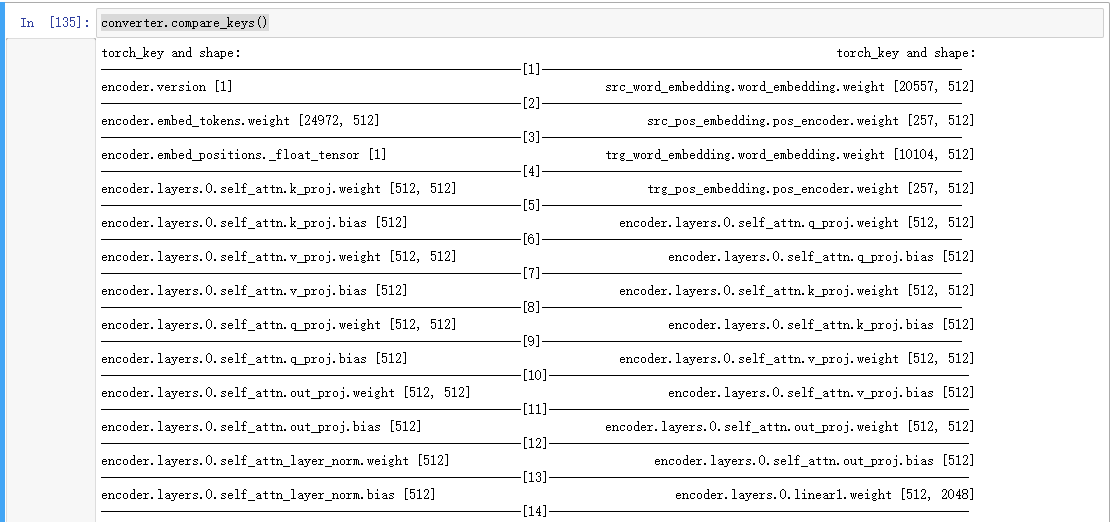
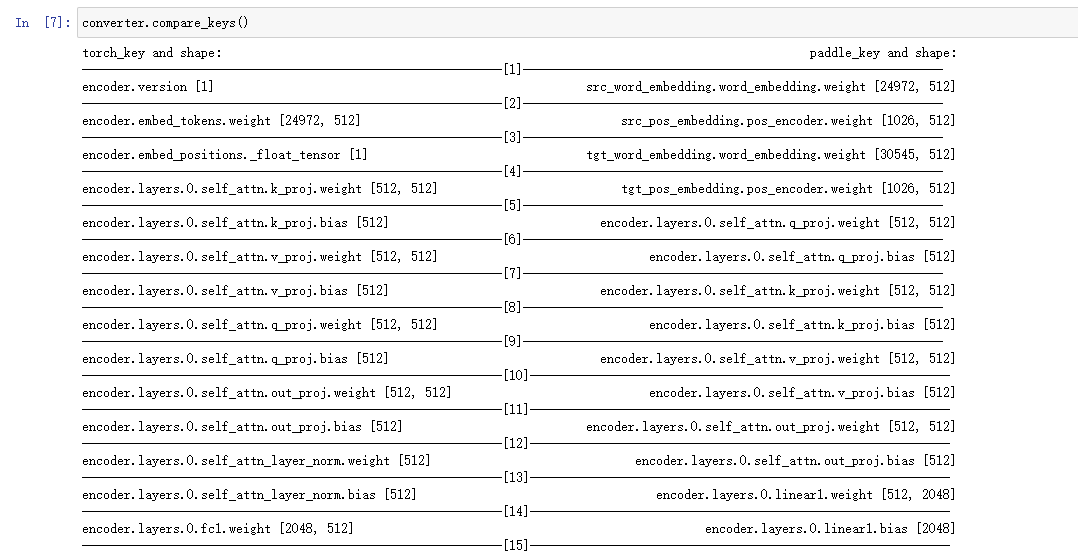
fix print title

Changed region(s): [[0.0, 0.0, 1.0, 1.0]]

diff --git a/build/lib/easyAlign/align.py b/build/lib/easyAlign/align.py
@@ -8,7 +8,7 @@ class Torch2PaddleConverter():
     def compare_keys(self):
         ''' print parameters info of torch and paddle clearly.'''
         idx = 0
-        print("{0:<60} \t {0:>60}".format("torch_key and shape:", "paddle_key and shape:"))
+        print("{0:<60} \t {1:>60}".format("torch_key and shape:", "paddle_key and shape:"))
         for (torch_k, torch_w), (paddle_k, paddle_v) in zip(self.torch_weights.items(), self.paddle_weights.items()):
             print("-" * 60 + f"[{idx + 1}]" + "-" * 60)
             msg_torch = f"{torch_k} {list(torch_w.shape)}"
@@ -29,7 +29,7 @@ class Torch2PaddleConverter():
                 paddle_k = self.paddle_keys[i]
                 paddle_w = self.paddle_weights[paddle_k]
                 msg_paddle = f"{paddle_k} {list(paddle_w.shape)}"
-                print("{0:>60} \t ".format(msg_paddle))
+                print("{0:>120} \t ".format(msg_paddle))
 
     def align_weights(self, skip_weights, donot_transpose, torch_to_paddle_keys, special_case_fn=None):
         '''

diff --git a/easyAlign/align.py b/easyAlign/align.py
@@ -8,7 +8,7 @@ class Torch2PaddleConverter():
     def compare_keys(self):
         ''' print parameters info of torch and paddle clearly.'''
         idx = 0
-        print("{0:<60} \t {0:>60}".format("torch_key and shape:", "paddle_key and shape:"))
+        print("{0:<60} \t {1:>60}".format("torch_key and shape:", "paddle_key and shape:"))
         for (torch_k, torch_w), (paddle_k, paddle_v) in zip(self.torch_weights.items(), self.paddle_weights.items()):
             print("-" * 60 + f"[{idx + 1}]" + "-" * 60)
             msg_torch = f"{torch_k} {list(torch_w.shape)}"
@@ -29,7 +29,7 @@ class Torch2PaddleConverter():
                 paddle_k = self.paddle_keys[i]
                 paddle_w = self.paddle_weights[paddle_k]
                 msg_paddle = f"{paddle_k} {list(paddle_w.shape)}"
-                print("{0:>60} \t ".format(msg_paddle))
+                print("{0:>120} \t ".format(msg_paddle))
 
     def align_weights(self, skip_weights, donot_transpose, torch_to_paddle_keys, special_case_fn=None):
         '''

diff --git a/setup.py b/setup.py
@@ -1,7 +1,7 @@
 from setuptools import find_packages,setup
 setup(
     name = 'easyAlign',
-    version = '0.1',
+    version = '0.2',
     author = '角灰大帝',
     url='https://github.com/MiuGod0126/easy_align',
     description = 'align torch weights to paddle',

diff --git a/README.md b/README.md
@@ -37,7 +37,7 @@ converter.compare_keys()
 
 ![](./imgs/compare_key.png)
 
-需要有skip_weights，donot_transpose，torch_to_paddle_keys，special_case_fn（可以没有）。
+需要有skip_weights，donot_transpose，torch_to_paddle_keys，special_case_fn（可以没有）,下面是一个具体例子：
 
 ```python
 ## 1、需要跳过的torch权重
@@ -66,7 +66,10 @@ def special_case_fn(key):
 
 ```python
 # 转换权重
-paddle_weights=converter.align_weights(skip_weights,donot_transpose,torch_to_paddle_keys,special_case_fn)
+paddle_weights=converter.align_weights(skip_weights=skip_weights,
+                        donot_transpose=donot_transpose,
+                        torch_to_paddle_keys=torch_to_paddle_keys,
+                        special_case_fn=special_case_fn)
 # 保存权重
 paddle.save(paddle_weights,'model.pdparams')
 ```
